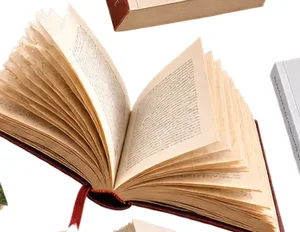
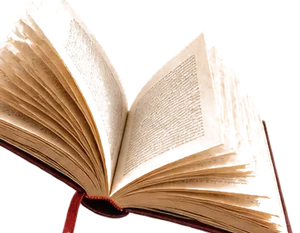
Vrai détourage des 28 cartes (fond transparent, plus de rectangle blanc)
Retour explicite, à raison : les découpes précédentes étaient de
simples rectangles avec fond blanc visible autour de chaque livre en
biais — pas digne d'un rendu professionnel.

rembg (déjà utilisé pour Æncre) donne de mauvais résultats sur cette
planche : c'est un modèle de segmentation d'objets naturels, pas
adapté à un aplat blanc de studio — plusieurs cartes ressortaient en
brume grise translucide au lieu d'un détourage net.

Détourage utilisé à la place, plus fiable pour ce type de source :
seuillage par distance à blanc (alpha nul sous ~234/255, plein au-delà
de 252/255) + ne garder que la plus grande composante connexe du
masque (élimine les bouts de livre voisin qui traînaient dans les
coins du rectangle, aux endroits où deux livres se touchent sur la
planche) + flou léger sur le canal alpha pour adoucir le bord. Les
cadrages sources ont aussi été resserrés pour réduire ces bavures de
voisinage à la racine plutôt que de compter uniquement sur le
nettoyage après coup.

Claude-Session: https://claude.ai/code/session_015EgAWCe7Wp3boi6AaBTQ9u

diff --git a/src/components/CartesFlottantes.jsx b/src/components/CartesFlottantes.jsx
@@ -14,10 +14,13 @@
  * planche — demande explicite de Joseph de garder toute la variété
  * plutôt que d'en réduire le nombre (une première passe n'en gardait
  * que 21, en écartant le livre "Cursus", les livres ouverts et les deux
- * cartes carte/photo comme "hors-sujet" ; revenu dessus). Planche
- * elle-même conservée nulle part ailleurs dans le dépôt — demander à
- * Joseph de la refournir avant tout nouveau recadrage. Redimensionnés à
- * 260-300px de large max et compressés en WebP qualité 84 : ~300 Ko pour
+ * cartes carte/photo comme "hors-sujet" ; revenu dessus). VRAIMENT
+ * détourés (fond transparent, pas un rectangle blanc autour de chaque
+ * livre en biais — voir CLAUDE.md pour la méthode, `rembg` donnait de
+ * mauvais résultats sur cette planche). Planche elle-même conservée
+ * nulle part ailleurs dans le dépôt — demander à Joseph de la refournir
+ * avant tout nouveau recadrage. Redimensionnés à 260-300px de large max
+ * et compressés en WebP qualité 84-88 : ~550 Ko pour
  * les 28 images, chargement encore léger malgré le passage au raster.
  *
  * Mécanique d'animation inchangée par rapport à la version précédente

diff --git a/CLAUDE.md b/CLAUDE.md
@@ -78,6 +78,21 @@ Demandes explicites ayant façonné ce fichier, dans l'ordre :
    ouverts et la carte/photo (format paysage, plus larges que hauts)
    ont un `poids` (largeur relative) plus élevé dans `CARTES` pour
    garder une emprise visuelle cohérente avec les cartes portrait.
+4. Ces 28 étaient de simples recadrages RECTANGULAIRES (fond blanc
+   visible autour de chaque livre en biais) — jugé "pas digne d'un
+   professionnel". Chaque fichier est maintenant vraiment DÉTOURÉ (fond
+   transparent, pas de rectangle blanc). `rembg` (déjà utilisé pour
+   Æncre) donne de mauvais résultats ici — modèle de segmentation
+   d'objets naturels, pas adapté à un aplat blanc de studio : plusieurs
+   cartes ressortaient en brume grise translucide. Le détourage utilisé
+   à la place, plus fiable pour ce type de source (recadrages nets sur
+   fond blanc uni) : seuillage par distance à blanc (alpha = 0 en
+   dessous de ~234/255, rampe jusqu'à 252/255) + ne garder que la plus
+   grande composante connexe du masque (élimine les bouts de livre
+   voisin qui traînaient dans les coins du rectangle, quand deux livres
+   se touchent sur la planche) + flou léger sur le seul canal alpha
+   pour adoucir le bord. Les cadrages ont aussi été resserrés d'un
+   deuxième passage pour réduire ces bavures de voisinage à la source.
 
 La planche source elle-même n'est PAS conservée dans le dépôt (seuls les
 28 recadrages qui en sont tirés le sont) — la redemander à Joseph avant
